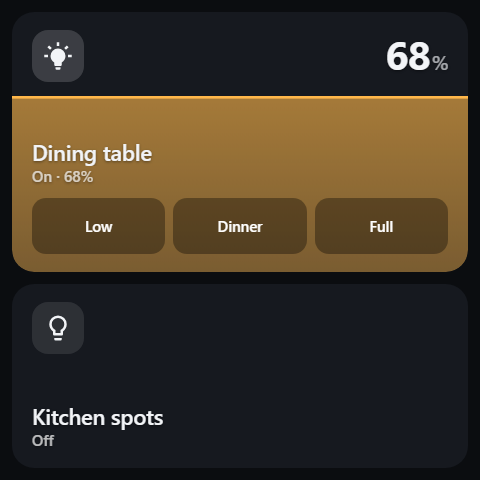
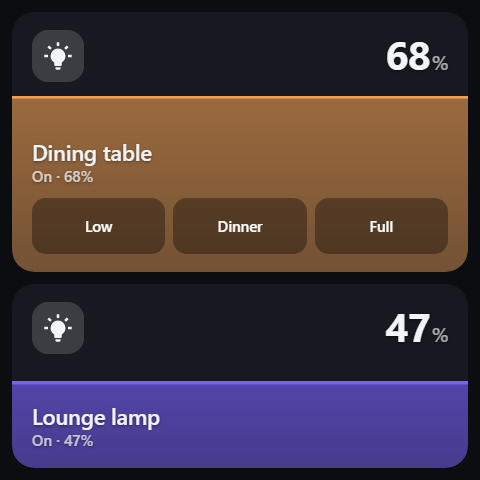
light card takes its colour from the bulb
The fill, the level line and the long-press sheet now use the light's own
rgb_color instead of a fixed amber. HA reports rgb_color for colour-temp
lights too, computed from the kelvin, so a warm lamp tints the card warm with
no special case and no kelvin conversion here.

Bulb colours are not picked to have text on them, and raw ones break the card
at both ends: a white or pale light washes the fill out until the label
disappears into it, and a saturated blue is so dark it vanishes against the
card. readableTint() pulls the colour into a usable luminance band - scaled
down above 170, mixed toward white below 70 - which keeps hue and keeps the
white text legible. Checked across white, 2700K, deep blue, pure red and
green: blended fill luminance lands between 53 and 115 in every case.

The custom properties are only written when the colour actually changes:
_paintTint guards on _tintShown, so a 30-frame drag writes them once, not
ninety times.

accent: set explicitly still wins, and follow_color: false opts out.

diff --git a/dist/nspanel-cards.js b/dist/nspanel-cards.js
@@ -41,7 +41,7 @@
  * move, so a swipe card wrapping these cards keeps working. See _onMove.
  */
 
-const NSPANEL_VERSION = '0.5.0';
+const NSPANEL_VERSION = '0.6.0';
 
 console.info(
   `%c NSPANEL-CARDS %c v${NSPANEL_VERSION} `,
@@ -84,6 +84,34 @@ function tintStops(hex) {
     strong: `rgba(${r},${g},${b},.62)`,
     weak: `rgba(${r},${g},${b},.34)`,
   };
+}
+
+/* A light's own colour, made safe to put white text on.
+ *
+ * The fill is a tint over a dark card, and the card's text sits on top of it.
+ * Raw bulb colours break that at both ends: a white or pale light washes the
+ * fill out until the text disappears into it, and a saturated blue or deep red
+ * is so dark it vanishes against the card instead. So the colour is pulled
+ * into a usable luminance band - scaled down when it is too bright, mixed
+ * toward white when it is too dark. Hue survives, which is the part that
+ * matters: a blue lamp still reads blue.
+ */
+function readableTint(rgb) {
+  let r = clamp(rgb[0], 0, 255);
+  let g = clamp(rgb[1], 0, 255);
+  let b = clamp(rgb[2], 0, 255);
+  const lum = 0.2126 * r + 0.7152 * g + 0.0722 * b;
+  if (lum > 170) {
+    const k = 170 / lum;
+    r *= k; g *= k; b *= k;
+  } else if (lum < 70) {
+    // Scaling up cannot help a colour that is already at full channel, so lift
+    // it toward white instead. That desaturates, which is the right trade for
+    // a deep blue on a near-black card.
+    const k = (70 - lum) / (255 - lum);
+    r += (255 - r) * k; g += (255 - g) * k; b += (255 - b) * k;
+  }
+  return [Math.round(r), Math.round(g), Math.round(b)];
 }
 
 function isOn(stateObj) {
@@ -820,6 +848,7 @@ class NsPanelLightCard extends NsBaseCard {
   static get cardType() { return 'nspanel-light-card'; }
   static get domain() { return 'light'; }
   static get accent() { return '#ffb74a'; }
+  static get defaultOptions() { return { follow_color: true }; }
 
   static getStubConfig(hass) {
     const found = hass && hass.states
@@ -841,6 +870,44 @@ class NsPanelLightCard extends NsBaseCard {
     if (!s || s.state !== 'on') return 0;
     const b = s.attributes.brightness;
     return typeof b === 'number' ? clamp(b / 255, 0, 1) : 1;
+  }
+
+  /* The colour to paint the card in: the bulb's own when it has one and is on,
+     otherwise the configured accent. An explicit `accent:` always wins - if
+     someone picked a colour, the card is not going to argue.
+     HA reports rgb_color for colour-temperature lights too, computed from the
+     kelvin, so a warm white lamp tints the card warm without any special case
+     here. A brightness-only or on/off light reports none, and keeps the amber. */
+  _tint() {
+    const cfg = this._config;
+    if (cfg.accent || cfg.follow_color === false) return null;
+    const s = this._stateObj;
+    if (!s || s.state !== 'on') return null;
+    const rgb = s.attributes.rgb_color;
+    if (!Array.isArray(rgb) || rgb.length < 3) return null;
+    if (rgb.some((c) => typeof c !== 'number')) return null;
+    return readableTint(rgb);
+  }
+
+  /* What the sheet and the fill should use right now. */
+  _liveAccent() {
+    const t = this._tint();
+    return t ? `rgb(${t[0]},${t[1]},${t[2]})` : this._accent();
+  }
+
+  /* Push the colour into the custom properties, but only when it has actually
+     changed - this runs on every frame of a drag. */
+  _paintTint() {
+    const t = this._tint();
+    const stamp = t ? t.join(',') : '';
+    if (stamp === this._tintShown) return;
+    this._tintShown = stamp;
+    const stops = t
+      ? { strong: `rgba(${t[0]},${t[1]},${t[2]},.62)`, weak: `rgba(${t[0]},${t[1]},${t[2]},.34)` }
+      : tintStops(this._accent());
+    this._card.style.setProperty('--ns-accent', t ? `rgb(${t[0]},${t[1]},${t[2]})` : this._accent());
+    this._card.style.setProperty('--ns-fill-strong', stops.strong);
+    this._card.style.setProperty('--ns-fill-weak', stops.weak);
   }
 
   _build() {
@@ -940,7 +1007,7 @@ class NsPanelLightCard extends NsBaseCard {
       title: this._title(),
       state: isOn(s) ? 'On' : 'Off',
       value: this._displayValue(),
-      accent: this._accent(),
+      accent: this._liveAccent(),
       step: this._config.step,
       actions: acts,
       onInput: (v) => {
@@ -967,6 +1034,7 @@ class NsPanelLightCard extends NsBaseCard {
 
     this._card.style.setProperty('--ns-fill', String(on && !broken ? v : 0));
     this._card.style.setProperty('--ns-fill-opacity', on && !broken ? '1' : '0');
+    this._paintTint();
 
     this._elIcon.setAttribute('icon',
       cfg.icon || (s && s.attributes.icon) || (on ? 'mdi:lightbulb-on' : 'mdi:lightbulb-outline'));
@@ -3143,6 +3211,7 @@ const EDITOR_LABELS = {
   step: 'Step for the +/- buttons',
   haptics: 'Haptics',
   more_info: 'Tap opens more-info',
+  follow_color: 'Use the light\'s own colour',
   secondary: 'Second entity (shown underneath)',
   unit: 'Unit (blank = the entity\'s own)',
   decimals: 'Decimals',
@@ -3289,6 +3358,7 @@ class NsBaseCardEditor extends HTMLElement {
 class NsPanelLightCardEditor extends NsBaseCardEditor {
   static get cardType() { return 'nspanel-light-card'; }
   static get domain() { return 'light'; }
+  static get rows() { return LIGHT_SCHEMA; }
 }
 
 class NsPanelCoverCardEditor extends NsBaseCardEditor {
@@ -3382,6 +3452,11 @@ const CLIMATE_SCHEMA = SHARED_SCHEMA.concat([
     ],
   },
   { name: 'more_info', selector: { boolean: {} } },
+]);
+
+/* The light card is the only one whose accent can come from the entity. */
+const LIGHT_SCHEMA = SHARED_SCHEMA.concat([
+  { name: 'follow_color', selector: { boolean: {} } },
 ]);
 
 /* The media card is a control card, minus the options that make no sense for

diff --git a/dev/bench.html b/dev/bench.html
@@ -128,8 +128,15 @@ function st(entity_id, state, attributes) {
 
 const hass = {
   states: {
+    // rgb_color is what HA reports for a colour-temp light too, computed from
+    // the kelvin - so this is a 2700K warm white, not a "colour" bulb.
     'light.dining_lights': st('light.dining_lights', 'on',
-      { friendly_name: 'Shelly Dimmer 2 Dining', brightness: 173 }),
+      { friendly_name: 'Shelly Dimmer 2 Dining', brightness: 173,
+        color_mode: 'color_temp', color_temp_kelvin: 2700,
+        rgb_color: [255, 169, 87] }),
+    'light.lounge_lamp': st('light.lounge_lamp', 'on',
+      { friendly_name: 'Hue Lounge Lamp', brightness: 120,
+        color_mode: 'hs', rgb_color: [120, 96, 255] }),
     'light.kitchen_spots': st('light.kitchen_spots', 'off',
       { friendly_name: 'Kitchen Spots Relay' }),
 
@@ -240,7 +247,7 @@ card('nspanel-light-card', {
 }, document.getElementById('s-light'));
 
 card('nspanel-light-card', {
-  entity: 'light.kitchen_spots', title: 'Kitchen spots',
+  entity: 'light.lounge_lamp', title: 'Lounge lamp',
   height: 184, show_presets: false,
 }, document.getElementById('s-light'));
 

diff --git a/README.md b/README.md
@@ -30,7 +30,7 @@ the constraint.
 
 | Card | What it does |
 | --- | --- |
-| `custom:nspanel-light-card` | Brightness. Drag anywhere, tap to toggle, long-press for the full-screen control. |
+| `custom:nspanel-light-card` | Brightness. Drag anywhere, tap to toggle, long-press for the full-screen control. The fill takes the bulb's own colour. |
 | `custom:nspanel-cover-card` | Blind/cover position. Same gestures; a tap while it is moving **stops** it. |
 | `custom:nspanel-climate-card` | Target temperature. Drag to set it, long-press for HVAC modes. Tap opens more-info rather than toggling — turning the heating off by brushing past the panel is a bad afternoon. |
 | `custom:nspanel-media-card` | Media player. Drag for volume, tap to play/pause, transport buttons on the face. |
@@ -96,7 +96,7 @@ That rules out `color-mix()` and CSS nesting; neither is used.
 ### Manual
 
 1. Copy `dist/nspanel-cards.js` to `/config/www/nspanel-cards.js`
-2. Settings → Dashboards → ⋮ → Resources → `/local/nspanel-cards.js?v=0.5.0`, type
+2. Settings → Dashboards → ⋮ → Resources → `/local/nspanel-cards.js?v=0.6.0`, type
    **JavaScript module**
 
 Home Assistant caches `/local/` hard. Bump the `?v=` when you update, or you will be looking at
@@ -141,6 +141,27 @@ presets:
 
 That is the card at the top of the picture; below it is a second one with
 `show_presets: false` and `height: 184`.
+
+#### The card takes the light's colour
+
+The fill is the bulb's own colour, not a fixed accent. The top card in the picture is a 2700K
+warm white; the one below it is a colour lamp sitting on purple. Nothing to configure — Home
+Assistant reports `rgb_color` for colour-temperature lights as well as colour ones, computed
+from the kelvin, so a warm lamp tints the card warm on its own. A brightness-only or on/off
+light reports no colour and keeps the amber default.
+
+Bulb colours are not chosen to have text on them, though, and raw ones break the card at both
+ends: a white or pale light washes the fill out until the label disappears into it, and a
+saturated blue is so dark it vanishes against the card instead. So the colour is pulled into a
+usable luminance band before it is used — scaled down when too bright, mixed toward white when
+too dark. The hue survives, which is the part that matters: a blue lamp still reads blue.
+
+Setting `accent` explicitly turns this off for that card — if you picked a colour, the card
+does not argue — and `follow_color: false` turns it off while leaving the default amber.
+
+| Option | Default | |
+| --- | --- | --- |
+| `follow_color` | `true` | use the bulb's colour for the fill, the level line and the sheet |
 
 A preset takes any of `brightness_pct`, `color_temp_kelvin`, `rgb_color`, `effect`, or `scene`
 (to fire a scene instead). `brightness_pct: 0` turns the light off.
@@ -533,8 +554,8 @@ views:
                 title: Dining table
                 height: 260
               - type: custom:nspanel-light-card
-                entity: light.kitchen_spots
-                title: Kitchen spots
+                entity: light.lounge_lamp
+                title: Lounge lamp
                 height: 184
                 show_presets: false
           - type: vertical-stack

diff --git a/CLAUDE.md b/CLAUDE.md
@@ -175,6 +175,22 @@ volume frame, and reassigning an identical `src` makes the browser decode the im
 which is exactly the kind of thing a Mali-G31 cannot absorb. `_artShown` is what guards it; if
 you touch `_render` there, keep that guard.
 
+### Colour taken from an entity
+
+The light card paints itself in the bulb's `rgb_color` (`_tint`/`_paintTint`/`_liveAccent`).
+Two things make that safe, and both matter if another card ever does the same:
+
+- **`readableTint()` is not optional.** The fill is a tint under the card's own white text.
+  Raw bulb colours fail at both ends - a white light washes the fill out until the label is
+  invisible, a saturated blue disappears against the card - so the colour is clamped into a
+  luminance band (scaled down above 170, mixed toward white below 70). Hue survives.
+- **The custom properties are only written when the colour changes.** `_paintTint` guards on
+  `_tintShown`; without it, three `setProperty` calls land on every frame of a drag.
+
+Precedence is: an explicit `accent` in the config, then the entity's colour, then the card's
+`static accent`. `follow_color: false` skips the middle one. HA reports `rgb_color` for
+colour-temp lights too, so there is no kelvin conversion here and there should not need to be.
+
 ### A card with CSS of its own
 
 `NsInfoCard._shell()` injects `BASE_CSS + INFO_CSS + this.constructor.extraCss`. A card that
